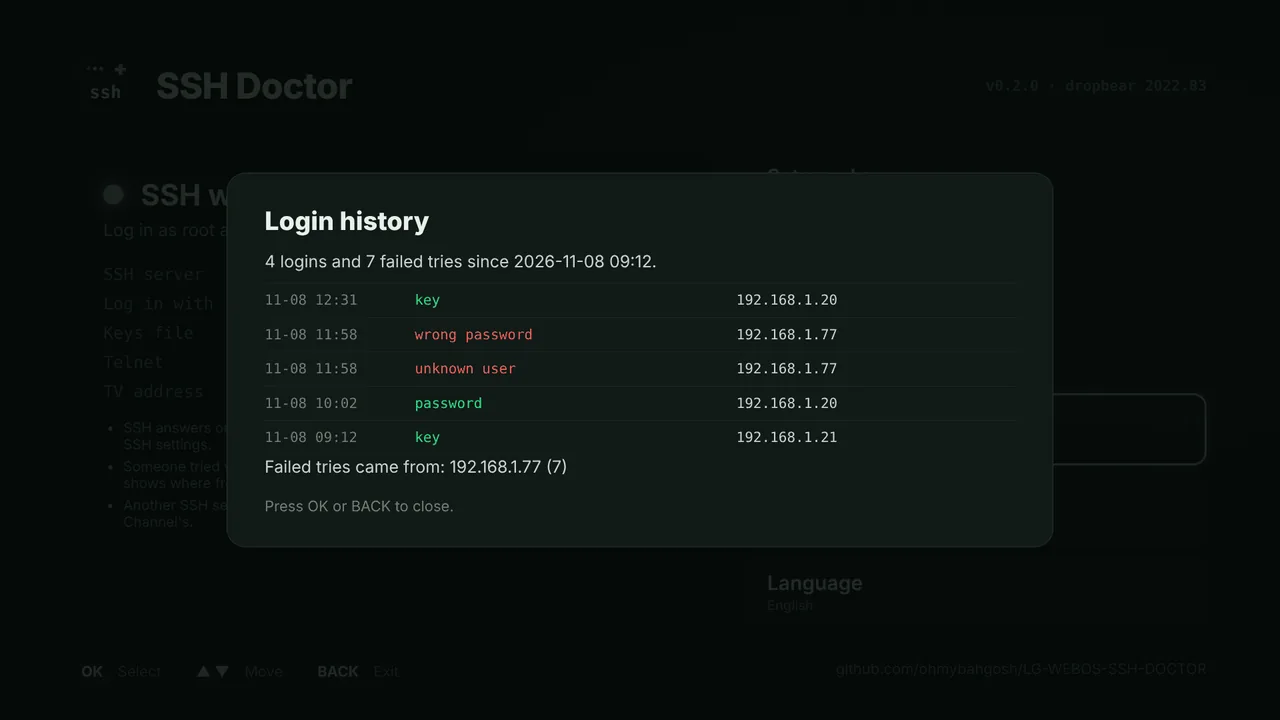
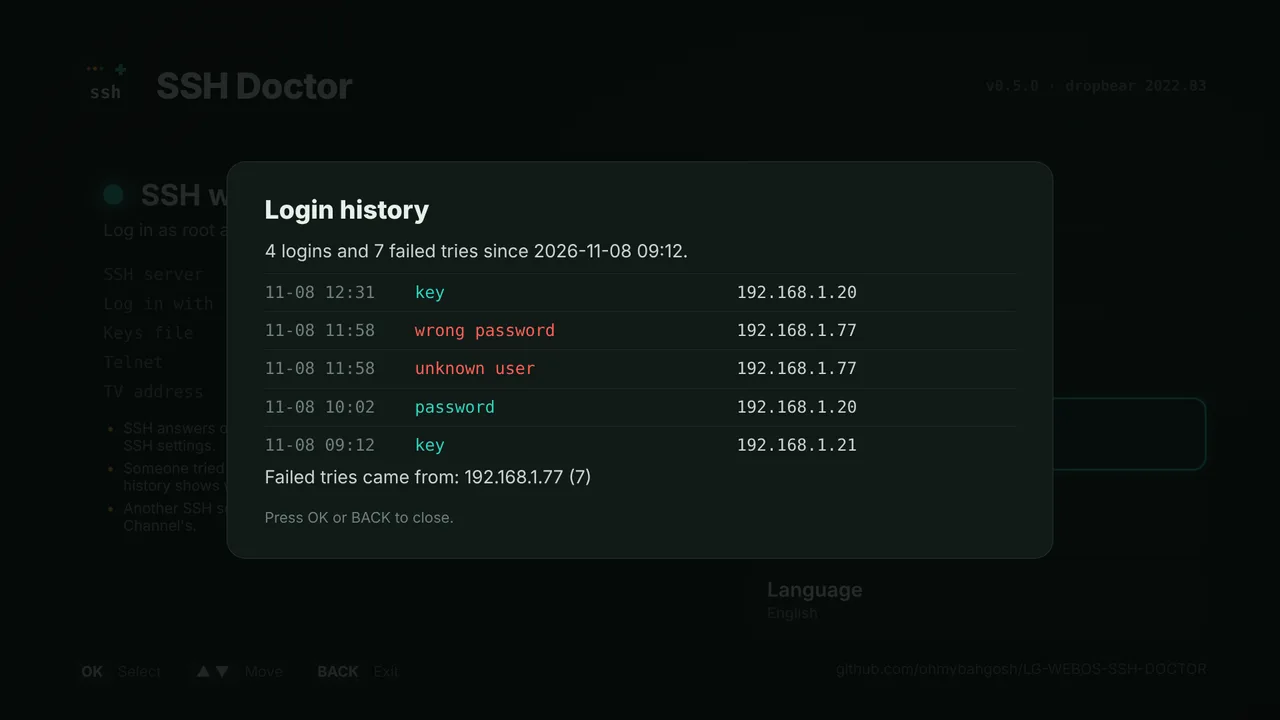
SSH Doctor 0.5.0: copy on your phone, update from the app, file transfer hints
A section for the copy page with its screenshots, two new FAQ entries on
the page and three on the FAQ page (with JSON-LD), update-check in the
telnet list, the app in the changes table, screenshots in the app's new
teal and the accent to match, and 40 tests on the homepage.

Claude-Session: https://claude.ai/code/session_01GQv7kLtzA735H79ikQWGNF

diff --git a/ssh-doctor/index.html b/ssh-doctor/index.html
@@ -50,7 +50,7 @@
    "applicationCategory": "UtilitiesApplication",
    "operatingSystem": "LG webOS (rooted, Homebrew Channel)",
    "url": "https://ohmybahgosh.dev/ssh-doctor/",
-   "softwareVersion": "0.4.0",
+   "softwareVersion": "0.5.0",
    "downloadUrl": "https://github.com/ohmybahgosh/LG-WEBOS-SSH-DOCTOR/releases/latest",
    "installUrl": "https://ohmybahgosh.dev/install/",
    "screenshot": "https://ohmybahgosh.dev/assets/img/ssh-doctor-main.webp",
@@ -61,7 +61,9 @@
     "Key pairing with a short code",
     "Your own root password",
     "SSH port and keys only",
-    "Login history"
+    "Login history",
+    "Copy commands and fingerprints on your phone by QR code",
+    "Update from the app"
    ],
    "offers": {
     "@type": "Offer",
@@ -95,7 +97,7 @@
     "@id": "https://ohmybahgosh.dev/#person"
    },
    "runtimePlatform": "LG webOS",
-   "softwareVersion": "0.4.0",
+   "softwareVersion": "0.5.0",
    "@id": "https://ohmybahgosh.dev/ssh-doctor/#source"
   },
   {
@@ -168,7 +170,7 @@
         <a class="btn" href="https://github.com/ohmybahgosh/LG-WEBOS-SSH-DOCTOR" target="_blank" rel="noopener">source ↗</a>
       </div>
       <div class="badges">
-        <span class="badge">version <b data-gh="LG-WEBOS-SSH-DOCTOR:release">v0.4.0</b></span>
+        <span class="badge">version <b data-gh="LG-WEBOS-SSH-DOCTOR:release">v0.5.0</b></span>
         <span class="badge">TV app <b class="c-gr">Homebrew Channel</b></span>
         <span class="badge">ssh <b>dropbear · Entware</b></span>
         <span class="badge">languages <b>en · ru · es</b></span>
@@ -197,7 +199,7 @@
       <div class="card s3 rv" style="--ca:#33e1ff"><div class="ic"><svg viewBox="0 0 24 24" width="18" height="18" fill="none" stroke="currentColor" stroke-width="2" stroke-linecap="round" stroke-linejoin="round" aria-hidden="true"><path d="M14.7 6.3a4 4 0 0 0-5.4 5.4L3 18v3h3l6.3-6.3a4 4 0 0 0 5.4-5.4l-2.4 2.4-2.6-.6-.6-2.6z"/></svg></div><h3>One button per fix</h3><p><b class="c-wh">Turn SSH on now</b> without a restart, <b class="c-wh">Fix my keys file</b> (line endings, hidden characters, wrapped and PuTTY keys, private keys, permissions), <b class="c-wh">Go back to password login</b> for anyone locked out, and <b class="c-wh">Undo a change</b>.</p></div>
       <div class="card s2 rv" style="--ca:#ffb547"><div class="ic">QR</div><h3>Pair a key by code</h3><p>Scan the QR on the TV, type the short code, and send a key you have or let the browser make one.  The private key never leaves your phone or computer.</p></div>
       <div class="card s2 rv" style="--ca:#8b5cff"><div class="ic"><svg viewBox="0 0 24 24" width="18" height="18" fill="none" stroke="currentColor" stroke-width="2" stroke-linecap="round" stroke-linejoin="round" aria-hidden="true"><circle cx="12" cy="12" r="9"/><path d="M12 7v5l3 3"/></svg></div><h3>Entware's SSH too</h3><p>When Entware's OpenSSH or dropbear is how you log in, it counts as your SSH and gets checked: its settings, root login, whether a password works there, host keys, its port and starting at boot.  It also spots Developer Mode's SSH on 9922, and only ever changes the Homebrew Channel's server.</p></div>
-      <div class="card s2 rv" style="--ca:#3ddc97"><div class="ic">$_</div><h3>Works over telnet too</h3><p><code>ssh-doctor.sh</code> runs on its own, for when telnet is the only way in: <code>status</code>, <code>fix-keys</code>, <code>password-on</code> and the rest.</p></div>
+      <div class="card s2 rv" style="--ca:#2dd4bf"><div class="ic">$_</div><h3>Works over telnet too</h3><p><code>ssh-doctor.sh</code> runs on its own, for when telnet is the only way in: <code>status</code>, <code>fix-keys</code>, <code>password-on</code> and the rest.</p></div>
     </div>
   </section>
 
@@ -209,7 +211,7 @@
         <div class="card"><div class="ic">***</div><h3>Your own password</h3><p>Typed on the TV, or on your phone through the pairing page.  It's turned into a SHA-512 crypt hash first, so the password itself is never sent over your network or saved on the TV, and applied the way the Homebrew Channel applies <code>alpine</code>.</p></div>
         <div class="card" style="--ca:#33e1ff"><div class="ic">#</div><h3>Keys only</h3><p>Passwords stop logging in.  It won't turn on until a key is on the TV, and <b class="c-wh">Go back to password login</b> undoes it if you lose the key.</p></div>
         <div class="card" style="--ca:#ffb547"><div class="ic">:22</div><h3>Another port</h3><p>2222, 22022 or any free port.  The old port stays open until you've logged in on the new one and keep it, and if dropbear won't start there, SSH goes straight back.</p></div>
-        <div class="card" style="--ca:#3ddc97"><div class="ic">♥</div><h3>Keepalive and reset</h3><p>A keepalive every 30 seconds so routers don't drop quiet sessions, and <b class="c-wh">Reset to Homebrew Channel defaults</b> removes all of it, the startup script too.</p></div>
+        <div class="card" style="--ca:#2dd4bf"><div class="ic">♥</div><h3>Keepalive and reset</h3><p>A keepalive every 30 seconds so routers don't drop quiet sessions, and <b class="c-wh">Reset to Homebrew Channel defaults</b> removes all of it, the startup script too.</p></div>
       </div>
     </div>
   </section>
@@ -227,10 +229,23 @@
     </div>
   </section>
 
+  <section id="copy" data-pal="SSH Doctor copy page and updates" style="padding-top:20px">
+    <div class="sec-head rv"><div><div class="eyebrow">scan &#8594; copy</div><h2 class="h2" style="margin-top:12px">Copy it on your phone.</h2><p>No typing long commands off the TV.  The screens with something worth copying show a QR code beside it.</p></div></div>
+    <div class="rv" style="display:flex;flex-wrap:wrap;gap:18px;align-items:flex-start;justify-content:center;margin-bottom:26px">
+      <div class="tv" style="flex:3 1 520px;min-width:0"><img src="/assets/img/ssh-doctor-howto.webp" alt="How to log in on the TV, with a QR code to copy it on a phone" width="1280" height="720" loading="lazy"></div>
+      <img src="/assets/img/ssh-doctor-phone-copy.webp" alt="The copy page on a phone: the login command, an SSH config and the TV's known_hosts lines, each with a Copy button" width="390" height="844" loading="lazy" style="flex:1 1 200px;width:100%;max-width:300px;height:auto;border-radius:18px;border:1px solid var(--line)">
+    </div>
+    <div class="bento">
+      <div class="card s2 rv" style="--ca:#2dd4bf"><div class="ic">QR</div><h3>Everything, one tap each</h3><p><b class="c-wh">How to log in</b>, <b class="c-wh">Report for getting help</b> and the TV's fingerprints open a read-only page on your phone: the login command for Mac, Linux, Windows, PuTTY or SFTP, <b class="c-wh">Open in an SSH app</b>, the <code>ssh-keygen -R</code> line for a changed host key, an SSH config and the keys that can log in.  It stops when that screen closes.</p></div>
+      <div class="card s2 rv" style="--ca:#33e1ff"><div class="ic">&#x2193;</div><h3>Update from the app</h3><p>Each time it opens, SSH Doctor checks GitHub for a newer release.  <b class="c-wh">Update to v&#8230;</b> shows what's new and installs it through the Homebrew Channel, which checks the download's SHA-256 first.  The app opens again by itself and shows what changed.</p></div>
+      <div class="card s2 rv" style="--ca:#ffb547"><div class="ic">SFTP</div><h3>File transfer, key or password</h3><p><b class="c-wh">File transfer</b> says how to log in from WinSCP, FileZilla or Cyberduck: with your key (and where each one takes it), <code>alpine</code> or your own password.  The address shown is the main connection's, so a wired eth0 comes before Wi-Fi.</p></div>
+    </div>
+  </section>
+
   <section id="safety" data-pal="SSH Doctor startup, internet and USB" style="padding-top:20px">
     <div class="sec-head rv"><div><div class="eyebrow">reboot · router · usb</div><h2 class="h2" style="margin-top:12px">Back by itself, closed to the internet, saved for later.</h2><p>Three things that matter most right after a restart, a reset, or when the TV can be reached from outside.</p></div></div>
     <div class="bento">
-      <div class="card s2 rv" style="--ca:#3ddc97"><div class="ic">&#x21bb;</div><h3>Fix SSH at startup</h3><p>Turn it on in SSH settings and, after every restart, SSH Doctor checks that SSH came up.  If it didn't, it starts it, and fixes keys file permissions dropbear would refuse.  The main screen says when it had to.  It never touches a port another program has.</p></div>
+      <div class="card s2 rv" style="--ca:#2dd4bf"><div class="ic">&#x21bb;</div><h3>Fix SSH at startup</h3><p>Turn it on in SSH settings and, after every restart, SSH Doctor checks that SSH came up.  If it didn't, it starts it, and fixes keys file permissions dropbear would refuse.  The main screen says when it had to.  It never touches a port another program has.</p></div>
       <div class="card s2 rv" style="--ca:#ff3ea5"><div class="ic">&#x2197;</div><h3>Reachable from the internet?</h3><p>Each time the app opens, it asks your router (UPnP, the way games open ports) whether it forwards the TV's SSH or telnet to the internet.  If it does, <b class="c-wh">Close it on the router</b> takes those forwards off.  Telnet, root with no password, is flagged first.</p></div>
       <div class="card s2 rv" style="--ca:#33e1ff"><div class="ic">USB</div><h3>Save or restore my setup</h3><p>Your keys, the TV's own SSH keys, settings and password hash on a USB drive.  After a factory reset and rooting again, put them back: logins work as before, and computers don't warn <code>REMOTE HOST IDENTIFICATION HAS CHANGED</code>.</p></div>
       <div class="card s6 rv" style="--ca:#ffb547"><div class="ic">$_</div><h3>Get more from SSH</h3><p>No <a class="c-pk" href="/webos-entware-installer/">Entware</a> on the TV yet?  SSH Doctor points to it: bash with history and tab completion, tmux to keep work running after you disconnect, nano, vim, htop, git, rsync and hundreds more packages, from the same Homebrew Channel repo.</p></div>
@@ -277,6 +292,7 @@ sh $S entware           # Entware's OpenSSH and dropbear, checked
 sh $S set-bootfix on    # check SSH at every start
 sh $S exposure          # does the router forward SSH or telnet?
 sh $S kit-save          # save to a USB drive; then kit-restore
+sh $S update-check      # a newer release?  then update-install
 sh $S report            # a report for asking for help
 sh $S help              # everything else</pre></div>
   </section>
@@ -294,6 +310,7 @@ sh $S help              # everything else</pre></div>
         <tr><td><code>/var/lib/webosbrew/sshd</code></td><td>The TV's host keys, only if you make new ones or put saved ones back (backed up first)</td></tr>
         <tr><td><code>/tmp/usb/…/ssh-doctor-kit</code></td><td>Your saved setup, only when you save one to a USB drive.  It holds the TV's private SSH keys, so keep the drive safe</td></tr>
         <tr><td>your router</td><td>Asked which ports it forwards (UPnP).  Only <b class="c-wh">Close it on the router</b> changes it, and only the forwards to this TV's SSH or telnet</td></tr>
+        <tr><td>the app itself</td><td>Updated only when you choose <b class="c-wh">Update to v&#8230;</b>, through the Homebrew Channel, which checks the download from GitHub against its SHA-256 first</td></tr>
         <tr><td><code>/opt/etc</code></td><td>Entware's SSH settings, host keys and password file: only read, never changed.  OpenSSH is asked for its settings with <code>sshd -T</code>, which only reads them</td></tr>
       </tbody>
     </table></div>
@@ -306,6 +323,8 @@ sh $S help              # everything else</pre></div>
       <details class="faq"><summary>Can I lock myself out with the settings?</summary><div>It's hard to.  Open SSH sessions stay connected when settings restart SSH.  Keys only won't turn on without a key, a port change keeps the old port open until you keep the new one, and the app itself runs through the Homebrew Channel, so <b>Go back to password login</b> always works from the remote.</div></details>
       <details class="faq"><summary>Does my password go over the network?</summary><div>No.  The TV app or the pairing page turns it into a SHA-512 crypt hash first, and only the hash is sent and kept.</div></details>
       <details class="faq"><summary>I use Entware's OpenSSH.  Will it touch that?</summary><div>It never changes, starts or stops it.  When Entware's OpenSSH or dropbear is how you log in, SSH Doctor treats it as your SSH and checks it: whether OpenSSH accepts its settings, whether root may log in, whether a password works there (OpenSSH turns root's password off by default, and Entware keeps its own password file, <code>/opt/etc/shadow</code>), its host keys, its port, and whether Entware starts at boot.  <b>Set up a key</b> works for it too, since it reads the same keys file.</div></details>
+      <details class="faq"><summary>Can I copy the login command on my phone instead of typing it?</summary><div>Yes.  <b>How to log in</b>, <b>Report for getting help</b> and the TV's fingerprints show a QR code.  Scan it and your phone opens a page with everything ready to copy, one tap each.  On a computer, type the address and the code it shows.  It's read only and stops when you close that screen.</div></details>
+      <details class="faq"><summary>How do I update SSH Doctor?</summary><div>From the app.  It checks GitHub each time it opens and offers <b>Update to v&#8230;</b> with what's new.  The Homebrew Channel installs it after checking the download's SHA-256, then SSH Doctor opens again and shows what changed.  More tools, <b>Updates</b> checks by hand, and the Homebrew Channel's own update works too.</div></details>
       <details class="faq"><summary>Was this written by AI?</summary><div>It's written with AI coding agents (Claude), directed, reviewed and tested by me.  The script has a test suite that runs every check and repair against a fake TV under busybox sh, dash and bash, CI drives the TV app and the pairing page in a browser, and each release is tried on a real TV.  <a class="c-gr" href="/#built">How these are built</a>.</div></details>
     </div>
   </section>

diff --git a/ssh-doctor/faq/index.html b/ssh-doctor/faq/index.html
@@ -154,6 +154,30 @@
       "@type": "Answer",
       "text": "Turn on Fix SSH at startup in SSH settings. After every restart it checks that SSH came up, starts it if it didn't, and fixes keys file permissions the SSH server would refuse. The main screen tells you when it had to."
      }
+    },
+    {
+     "@type": "Question",
+     "name": "Can I copy the login command on my phone instead of typing it?",
+     "acceptedAnswer": {
+      "@type": "Answer",
+      "text": "Yes. How to log in, Report for getting help and the TV's fingerprints show a QR code. Scan it and your phone opens a page with everything ready to copy, one tap each: the login command for Mac, Linux, Windows, PuTTY or SFTP, an Open in an SSH app link, the line for a changed host key, an SSH config and the keys that can log in. It's read only and stops when you close that screen on the TV."
+     }
+    },
+    {
+     "@type": "Question",
+     "name": "How do I update SSH Doctor?",
+     "acceptedAnswer": {
+      "@type": "Answer",
+      "text": "From the app. Each time it opens, it checks GitHub for a newer release and offers Update with what's new. The Homebrew Channel installs it after checking the download's SHA-256, then SSH Doctor opens again by itself and shows what changed. More tools, Updates checks by hand."
+     }
+    },
+    {
+     "@type": "Question",
+     "name": "Should I use my key or a password in WinSCP or FileZilla?",
+     "acceptedAnswer": {
+      "@type": "Answer",
+      "text": "Whichever you log in with over SSH: File transfer in More tools says which one this TV takes. With a key, pick your private key file in the program (WinSCP and FileZilla offer to convert an OpenSSH key). With a password, it's alpine or the one you set. The host, port and user are the same as for SSH."
+     }
     }
    ]
   }
@@ -211,7 +235,7 @@
 <details class="faq"><summary>How does pairing a key work?</summary><div>Choose <b>Set up a key</b> on the TV, scan the QR code or open the address on your computer or phone, enter the short code, and upload a public key or let the browser make one.  The private key never leaves your device.</div></details>
 <details class="faq"><summary>Can I set my own root password?</summary><div>Yes, on the TV or from your phone.  It's turned into a SHA-512 crypt hash first, so the password itself is never sent over the network or saved on the TV.</div></details>
 <details class="faq"><summary>Can I move SSH off port 22?</summary><div>Yes.  The old port stays open alongside the new one until you've logged in on the new one, so a typo can't lock you out.</div></details>
-<details class="faq"><summary>Does it change system files?</summary><div>No.  Settings live in the Homebrew Channel's folders, a backup is kept before every change, and <b>Reset to Homebrew Channel defaults</b> removes all of it.</div></details><details class="faq"><summary>What happens to my keys after a factory reset?</summary><div>They're gone with everything else, unless you saved them first.  In More tools, <b>Save or restore my setup</b> puts your keys, the TV's own SSH keys, your settings and your password's hash on a USB drive.  After rooting again, put them back: logins work as before, and computers don't warn that the TV changed.</div></details><details class="faq"><summary>Can it tell if my TV's SSH is open to the internet?</summary><div>Yes, if your router has UPnP on.  Each time the app opens, it asks the router which ports it forwards, and warns if the TV's SSH or telnet is one of them.  <b>Close it on the router</b> takes those forwards off.  Forwards set up by hand in the router usually aren't listed, so check its port forwarding page too.</div></details><details class="faq"><summary>SSH didn't come back after a restart.  Can it fix that by itself?</summary><div>Turn on <b>Fix SSH at startup</b> in SSH settings.  After every restart it checks that SSH came up, starts it if it didn't, and fixes keys file permissions the SSH server would refuse.  The main screen tells you when it had to.</div></details><h2>Related</h2><div class="gcards"><a class="card gcard" href="/ssh-doctor/"><b>SSH Doctor</b><span>The project page</span></a><a class="card gcard" href="/install/"><b>Install guide</b><span>Root, Homebrew Channel, repo</span></a><a class="card gcard" href="/guides/"><b>Guides</b><span>How-tos for rooted LG TVs</span></a></div>
+<details class="faq"><summary>Does it change system files?</summary><div>No.  Settings live in the Homebrew Channel's folders, a backup is kept before every change, and <b>Reset to Homebrew Channel defaults</b> removes all of it.</div></details><details class="faq"><summary>What happens to my keys after a factory reset?</summary><div>They're gone with everything else, unless you saved them first.  In More tools, <b>Save or restore my setup</b> puts your keys, the TV's own SSH keys, your settings and your password's hash on a USB drive.  After rooting again, put them back: logins work as before, and computers don't warn that the TV changed.</div></details><details class="faq"><summary>Can it tell if my TV's SSH is open to the internet?</summary><div>Yes, if your router has UPnP on.  Each time the app opens, it asks the router which ports it forwards, and warns if the TV's SSH or telnet is one of them.  <b>Close it on the router</b> takes those forwards off.  Forwards set up by hand in the router usually aren't listed, so check its port forwarding page too.</div></details><details class="faq"><summary>SSH didn't come back after a restart.  Can it fix that by itself?</summary><div>Turn on <b>Fix SSH at startup</b> in SSH settings.  After every restart it checks that SSH came up, starts it if it didn't, and fixes keys file permissions the SSH server would refuse.  The main screen tells you when it had to.</div></details><details class="faq"><summary>Can I copy the login command on my phone instead of typing it?</summary><div>Yes.  <b>How to log in</b>, <b>Report for getting help</b> and the TV's fingerprints show a QR code.  Scan it and your phone opens a page with everything ready to copy, one tap each: the login command for Mac, Linux, Windows, PuTTY or SFTP, an <b>Open in an SSH app</b> link, the <code>ssh-keygen -R</code> line for a changed host key, an SSH config and the keys that can log in.  It's read only and stops when you close that screen on the TV.</div></details><details class="faq"><summary>How do I update SSH Doctor?</summary><div>From the app.  Each time it opens, it checks GitHub for a newer release and offers <b>Update to v&#8230;</b> with what's new.  The Homebrew Channel installs it after checking the download's SHA-256, then SSH Doctor opens again by itself and shows what changed.  More tools, <b>Updates</b> checks by hand.</div></details><details class="faq"><summary>Should I use my key or a password in WinSCP or FileZilla?</summary><div>Whichever you log in with over SSH: <b>File transfer</b> in More tools says which one this TV takes.  With a key, pick your private key file in the program (WinSCP and FileZilla offer to convert an OpenSSH key).  With a password, it's <code>alpine</code> or the one you set.  The host, port and user are the same as for SSH.</div></details><h2>Related</h2><div class="gcards"><a class="card gcard" href="/ssh-doctor/"><b>SSH Doctor</b><span>The project page</span></a><a class="card gcard" href="/install/"><b>Install guide</b><span>Root, Homebrew Channel, repo</span></a><a class="card gcard" href="/guides/"><b>Guides</b><span>How-tos for rooted LG TVs</span></a></div>
 </article>
 </div>
 </main>

diff --git a/index.html b/index.html
@@ -329,13 +329,14 @@ html[data-theme=light] .helptest b{color:#000}
         <span class="go">↗</span>
         <div class="pmedia"><video src="/assets/media/ssh-doctor-app-tour.mp4" poster="/assets/img/ssh-doctor-app-tour-poster.webp" autoplay muted loop playsinline preload="metadata" width="960" height="540" aria-label="The SSH Doctor TV app: SSH settings with a port change underway, More tools and the login history, then Set up a key with its QR code and pairing code"></video></div>
         <div class="pbody">
-          <div class="phead"><img class="appicon sm" src="/assets/img/ssh-doctor-icon.webp" alt="" width="48" height="48" loading="lazy"><h3>SSH Doctor</h3><span class="pill" style="--ca:#3ddc97" data-gh="LG-WEBOS-SSH-DOCTOR:release">v0.4.0</span></div>
+          <div class="phead"><img class="appicon sm" src="/assets/img/ssh-doctor-icon.webp" alt="" width="48" height="48" loading="lazy"><h3>SSH Doctor</h3><span class="pill" style="--ca:#2dd4bf" data-gh="LG-WEBOS-SSH-DOCTOR:release">v0.5.0</span></div>
           <p class="ptag">SSH on your rooted TV stopped working?  It finds out why, in plain words, and fixes it with the remote.</p>
           <ul>
             <li>Repairs a broken <code>authorized_keys</code> and gets you back in after a lost <code>alpine</code> password</li>
             <li>Pairs a key from your phone or computer with a short code</li>
             <li>Your own password, keys only or another port, kept after a restart</li>
             <li>Brings SSH back after a restart, and warns if your router exposes it</li>
+            <li>Copy the login command on your phone by QR code, and update from the app</li>
             <li>Checks Entware's OpenSSH or dropbear too, when that's how you log in</li>
           </ul>
           <div class="meta"><span class="lang" style="--lc:#89e051">Shell</span><span>★ <b data-gh="LG-WEBOS-SSH-DOCTOR:stars">1</b></span><span>en · es · ru</span><span>new</span></div>
@@ -373,7 +374,7 @@ html[data-theme=light] .helptest b{color:#000}
       <div class="hbapps">
         <a class="hbapp" href="/tivibro/#install"><img class="appicon sm" src="/assets/img/tivibro-icon.webp" alt="" width="48" height="48" loading="lazy"><div><b>TiviBro <span class="pill" style="--ca:#33e1ff" data-gh="TiviBro:version">0.6.0-alpha.105</span></b><span>The IPTV player LG TVs never got.  Newest test builds.</span></div></a>
         <a class="hbapp" href="/lg-usb-2-eth0/#homebrew"><img class="appicon sm" src="/assets/img/eth0-icon.webp" alt="" width="48" height="48" loading="lazy"><div><b>LG-USB-2-ETH0 <span class="pill" style="--ca:#3ddc97" data-gh="LG-USB-2-ETH0:release">v2.11.14</span></b><span>Make a USB Ethernet adapter the TV's eth0.</span></div></a>
-        <a class="hbapp" href="/ssh-doctor/"><img class="appicon sm" src="/assets/img/ssh-doctor-icon.webp" alt="" width="48" height="48" loading="lazy"><div><b>SSH Doctor <span class="pill" style="--ca:#3ddc97" data-gh="LG-WEBOS-SSH-DOCTOR:release">v0.4.0</span></b><span>Check and fix SSH on a rooted TV, and pair a key.</span></div></a>
+        <a class="hbapp" href="/ssh-doctor/"><img class="appicon sm" src="/assets/img/ssh-doctor-icon.webp" alt="" width="48" height="48" loading="lazy"><div><b>SSH Doctor <span class="pill" style="--ca:#2dd4bf" data-gh="LG-WEBOS-SSH-DOCTOR:release">v0.5.0</span></b><span>Check and fix SSH on a rooted TV, and pair a key.</span></div></a>
         <a class="hbapp" href="/webos-entware-installer/#homebrew"><img class="appicon sm" src="/assets/img/entware-icon.webp" alt="" width="48" height="48" loading="lazy"><div><b>Entware <span class="pill" style="--ca:#ff3ea5">v<span data-gh="WEBOS-ENTWARE-INSTALLER:version">2.15.1</span></span></b><span>Linux packages, a bash shell, updates and add-ons.</span></div></a>
       </div>
       <p class="dim" style="font-size:14px;margin:14px 0 0">The address is for the Homebrew Channel; a browser just downloads it.  To read it in a browser, open <a class="c-cy" href="/repo.json">repo.json</a>.  TiviBro here follows its newest test builds, the same as <code>tivibro.app/testing</code>.  Its own repositories on tivibro.app work as before; see the <a class="c-cy" href="/tivibro/#install">TiviBro page</a>.</p>
@@ -412,7 +413,7 @@ html[data-theme=light] .helptest b{color:#000}
     <div class="bento">
       <div class="card s3 rv"><div class="ic">01</div><h3>Looks before it touches</h3><p>Each tool reads your model, webOS version and free space first, and says what it will change before it changes anything.</p></div>
       <div class="card s3 rv" style="--ca:#3ddc97"><div class="ic">02</div><h3>Undo is built in</h3><p>A backup before every change, a clean uninstall, and a reboot that always starts clean.</p></div>
-      <div class="card s3 rv" style="--ca:#ff3ea5"><div class="ic">03</div><h3>Tested on real TVs</h3><p>Nothing ships until it runs on a real LG TV.  Before that, test suites stand in for one under busybox and dash: 90 tests for LG-USB-2-ETH0, 430+ for Entware and 37 for SSH Doctor, and the TV apps run in a headless browser.</p></div>
+      <div class="card s3 rv" style="--ca:#ff3ea5"><div class="ic">03</div><h3>Tested on real TVs</h3><p>Nothing ships until it runs on a real LG TV.  Before that, test suites stand in for one under busybox and dash: 90 tests for LG-USB-2-ETH0, 430+ for Entware and 40 for SSH Doctor, and the TV apps run in a headless browser.</p></div>
       <div class="card s3 rv" style="--ca:#ffb547"><div class="ic">04</div><h3>No accounts, no tracking</h3><p>Open source and MIT licensed.  Bring your own playlist.  Nothing phones home except an opt-out anonymous install count in TiviBro.</p></div>
     </div>
 
